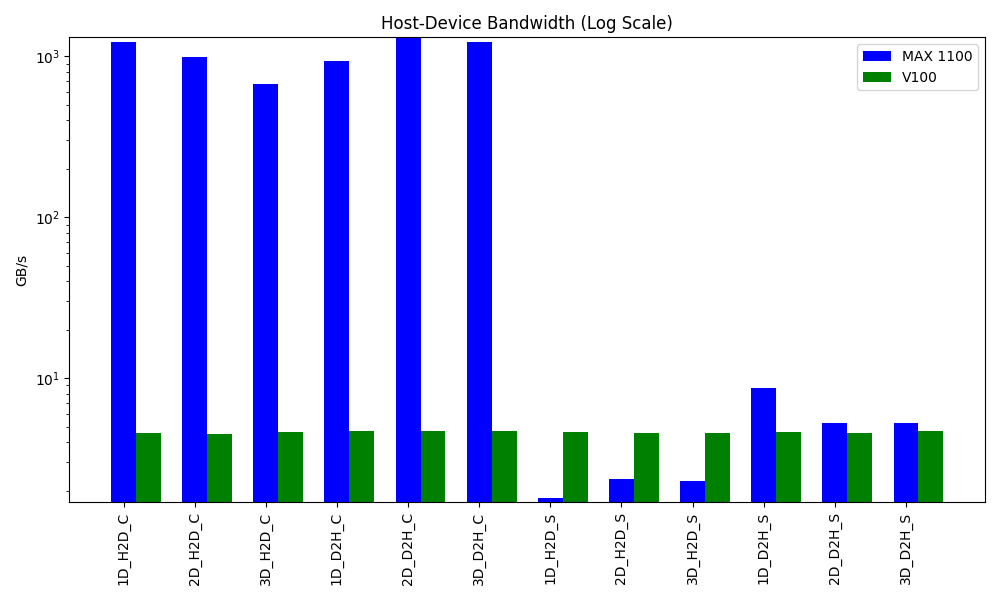
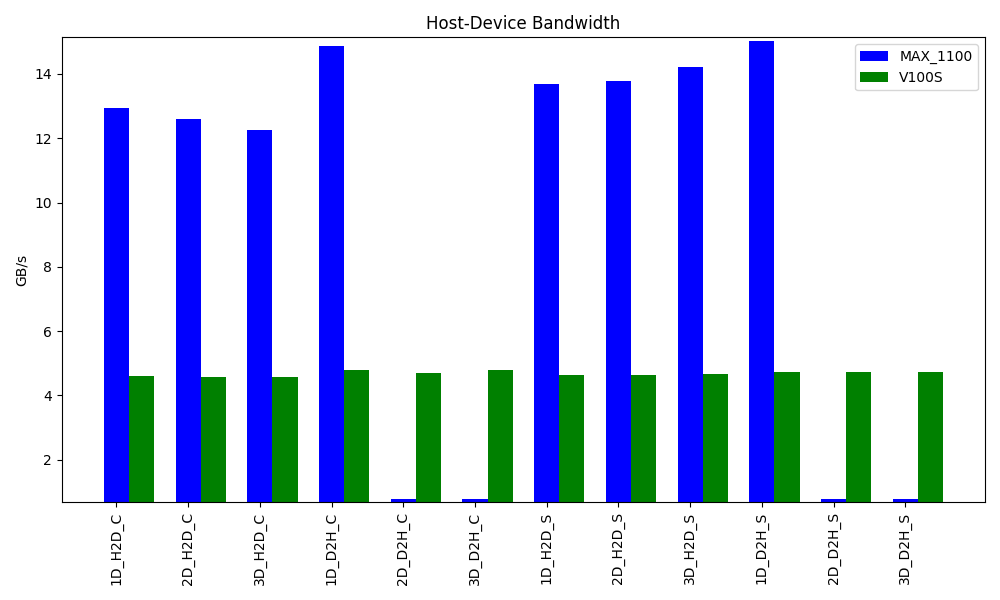
refactor

diff --git a/scripts/plots/host_device_mem.py b/scripts/plots/host_device_mem.py
@@ -1,4 +1,4 @@
-from plot_utils import check_double_input
+from plot_utils import check_double_input, get_double_gpu_name
 import pandas as pd
 import matplotlib.pyplot as plt
 import numpy as np
@@ -8,6 +8,7 @@ from sklearn.preprocessing import MinMaxScaler
 from scipy.stats import hmean
 
 data_gpu1, data_gpu2, out_file = check_double_input()
+name1, name2 = get_double_gpu_name()
 
 to_replace = {
     'MicroBench_HostDeviceBandwidth_1D_H2D_Contiguous': '1D_H2D_C',
@@ -40,12 +41,12 @@ width = 0.35
 
 # Crea il grafico a barre
 fig, ax = plt.subplots(figsize=(10, 6))
-bar1 = ax.bar(ind, bandwidth1, width, color='b', label='MAX 1100')
-bar2 = ax.bar([i + width for i in ind], bandwidth2, width, color='g', label='V100')
+bar1 = ax.bar(ind, bandwidth1, width, color='b', label=name1)
+bar2 = ax.bar([i + width for i in ind], bandwidth2, width, color='g', label=name2)
 
 # Aggiungi etichette, titolo e legenda
 ax.set_ylabel('GB/s')
-ax.set_title('Host-Device Bandwidth (Log Scale)')  # Update the title
+ax.set_title('Host-Device Bandwidth')  # Update the title
 ax.set_xticks(ind)
 ax.set_xticklabels(data_gpu1['bench-name'], rotation=90)
 ax.legend()
@@ -55,7 +56,7 @@ max_value = max(max(bandwidth1), max(bandwidth2))
 ax.set_ylim(min_value - 0.1, max_value + 0.1)
 
 # Set the y-axis to log scale
-ax.set_yscale('log')
+# ax.set_yscale('log')
 
 # Mostra il grafico
 plt.tight_layout()

diff --git a/scripts/plots/plot_utils.py b/scripts/plots/plot_utils.py
@@ -38,3 +38,11 @@ def check_double_input():
     df1 = pd.read_csv(csv_file1)
     df2 = pd.read_csv(csv_file2)
     return (df1, df2, out_plot)
+
+def get_double_gpu_name():
+    assert len(sys.argv) >= 2
+
+    name1 = os.path.abspath(sys.argv[1]).split('/')[-2]
+    name2 = os.path.abspath(sys.argv[2]).split('/')[-2]
+
+    return (name1, name2)

diff --git a/scripts/benchsuite.py b/scripts/benchsuite.py
@@ -88,7 +88,7 @@ def main():
             benchmarks[key].append(BenchArgs(**v))
 
     for key, val in benchmarks.items():
-        print(val[0])
+        print(*val)
 
     for bench in benchmarks:
         curr_bench_path = os.path.join(out_dir, bench)
